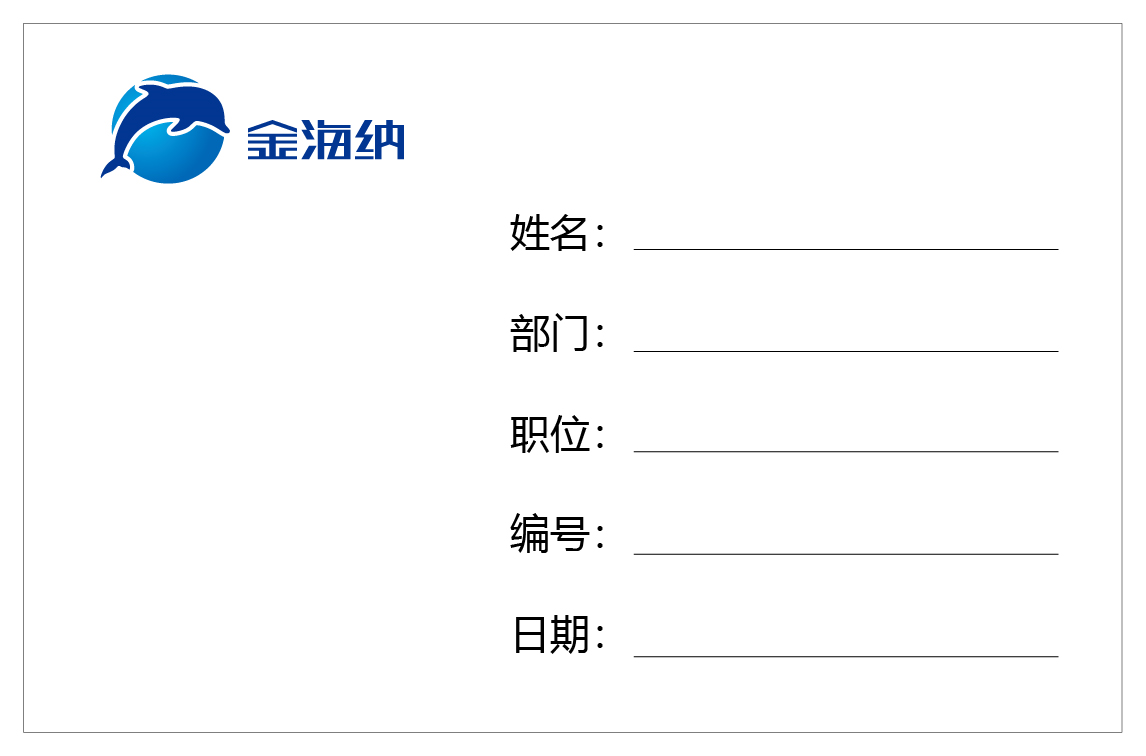
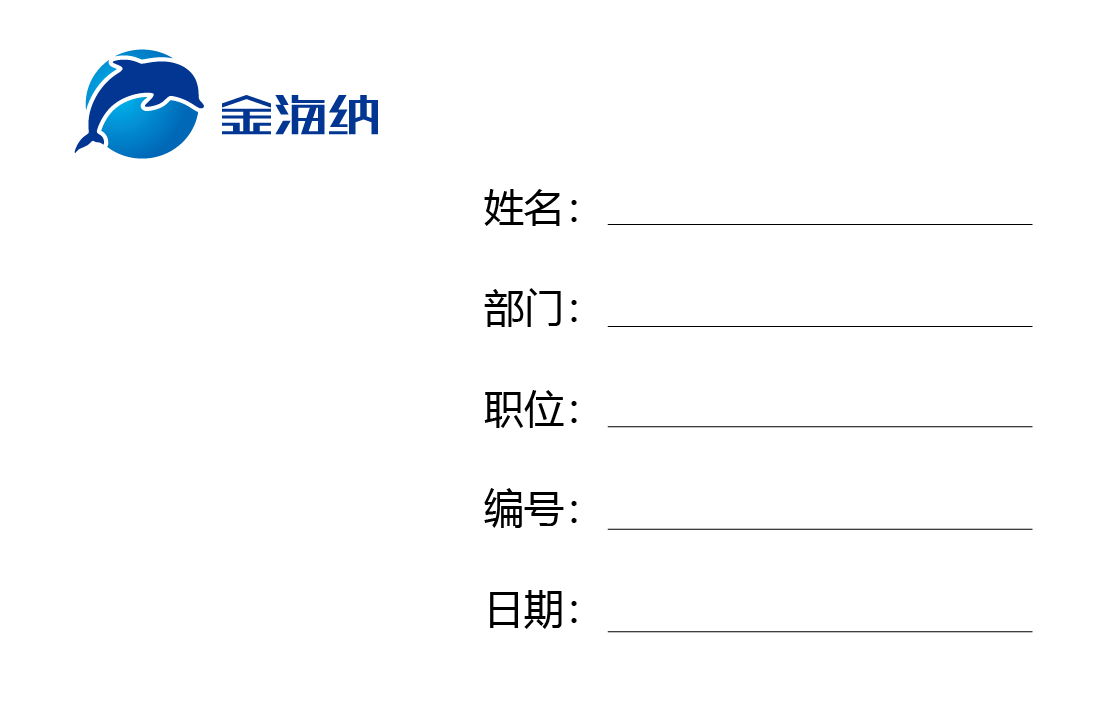
修复bug

diff --git a/src/main/resources/static/badge_print.html b/src/main/resources/static/badge_print.html
@@ -174,11 +174,13 @@
         const container = $('#print-area');
 
         const isHorizontal = template.layout === 'horizontal';
+        console.log(isHorizontal)
         const baseWidth = template.baseWidth || (isHorizontal ? 370 : 230);
         const scale = {small: 0.8, medium: 1, large: 1.2}[sizeMode];
         const finalWidth = baseWidth * scale;
-        const printCols = isHorizontal ? 2 : 3;
+        const printCols = isHorizontal ? 3 : 2;
 
+        console.log(printCols)
         container.css({'--item-width': finalWidth + 'px', '--print-cols': printCols});
         container.empty();
 

diff --git a/src/main/java/com/ray/atten/middle/module/controller/OaEmployeeController.java b/src/main/java/com/ray/atten/middle/module/controller/OaEmployeeController.java
@@ -30,8 +30,6 @@ public class OaEmployeeController {
     private DeviceService deviceService;
 
 
-    // todo: 增加显示是否录入指纹人脸，增加分部显示，排序优先显示未录入按时间倒序
-
     /**
      * 使用 POST 請求查詢員工列表 (支持複雜查詢和分頁參數)
      * * @param request 包含所有查詢條件的 DTO
